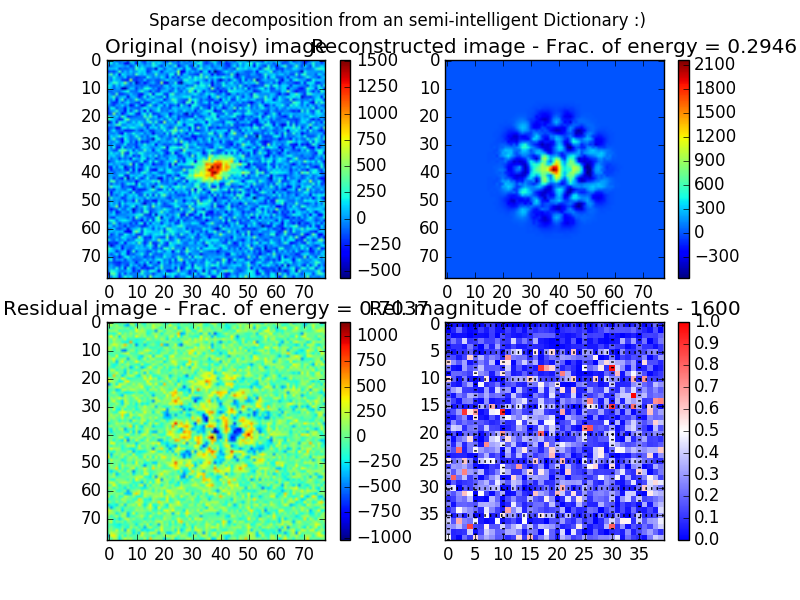
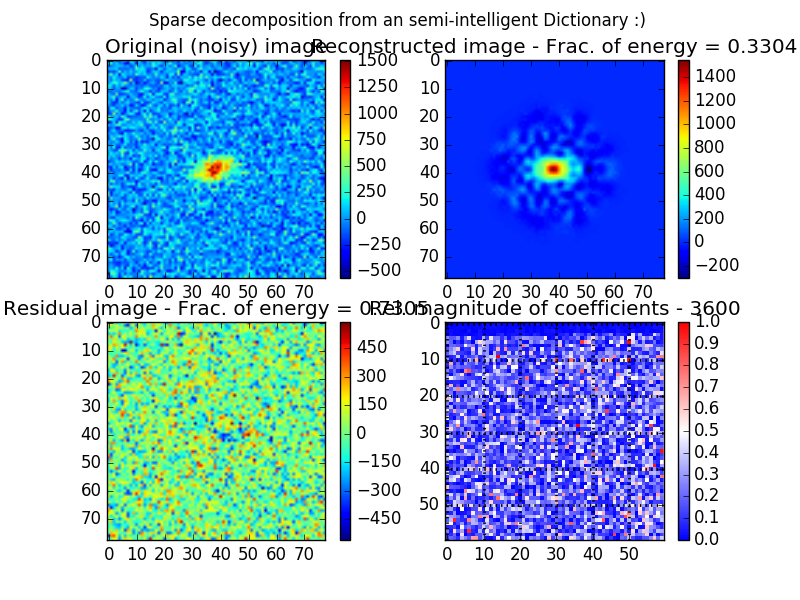
Variables interchanged in SVD solver - fixed

diff --git a/codes/code/python_codes/shapelet_dicts.py b/codes/code/python_codes/shapelet_dicts.py
@@ -19,7 +19,7 @@ import math
 from sklearn.linear_model import OrthogonalMatchingPursuit as OMP
 import polar_shapelet_decomp as p_shapelet
 
-DEBUG = 1
+DEBUG =1
 
 ##Define orthonormal basis - shapelets
 def shapelet1d(n,x0=0,s=1):
@@ -106,6 +106,28 @@ def plot_decomposition(cube_real, img_idx, base_coefs,N1,N2,shapelet_reconst, si
             +str(np.round(residual_energy_fraction,4)))
     ax[1,1].set_title('Rel. magnitude of coefficients')
     fig.suptitle('Shapelet Basis decomposition')
+    
+    def on_draw(event):
+       bboxes = []
+       for label in labels:
+           bbox = label.get_window_extent()
+           # the figure transform goes from relative coords->pixels and we
+           # want the inverse of that
+           bboxi = bbox.inverse_transformed(fig.transFigure)
+           bboxes.append(bboxi)
+
+       # this is the bbox that bounds all the bboxes, again in relative
+       # figure coords
+       bbox = mtransforms.Bbox.union(bboxes)
+       if fig.subplotpars.left < bbox.width:
+           # we need to move it over
+           fig.subplots_adjust(left=1.1*bbox.width) # pad a little
+           fig.canvas.draw()
+       return False
+
+    fig.canvas.mpl_connect('draw_event', on_draw)
+    
+    plt.show()
 
     if(basis == 'Polar'):
         plt.savefig('Decomp_cartesian.png')
@@ -174,6 +196,7 @@ def solver_SVD(D, signal):
     
     if(DEBUG):
         print('shape_coeffs ', np.shape(coeffs_SVD))
+        print('shape_D', np.shape(D))
     n_nonzero_coefs_SVD = np.count_nonzero(coeffs_SVD)
     reconstruction_SVD = np.dot(D,coeffs_SVD)
     residual_SVD = signal - reconstruction_SVD
@@ -212,9 +235,7 @@ def solver_lasso_reg(D, signal):
             residual_energy_fraction_lasso, recovered_energy_fraction_lasso, n_nonzero_coefs_lasso
 
 
-
-
-def shapelet_decomposition(N1=20,N2=20, basis = 'XY', solver = 'sparse'):
+def shapelet_decomposition(N1=20,N2=20, basis = 'XY', solver = 'sparse', noise = False):
     # Obtaining galaxy images
     cube_real = pyfits.getdata('../../data/cube_real.fits')
     cubr_real_noiseless = pyfits.getdata('../../data/cube_real_noiseless.fits')
@@ -241,6 +262,14 @@ def shapelet_decomposition(N1=20,N2=20, basis = 'XY', solver = 'sparse'):
                 Phi[i,j] = math.atan2(Yv[i,j], Xv[i,j])
 
         signal = cube_real[img_idx].flatten()
+
+        if(1):
+            import random
+            random.seed()
+            print(signal, np.shape(signal))
+            signal = signal + np.random.rand(np.shape(signal)[0])
+            print(signal, np.shape(signal))
+
         shapelet_reconst = np.zeros_like(signal)
 
         #Decompose into Polar or XY 
@@ -297,25 +326,29 @@ def shapelet_decomposition(N1=20,N2=20, basis = 'XY', solver = 'sparse'):
         fig = plot_decomposition(cube_real, img_idx, base_coefs,N1,N2,shapelet_reconst, signal, residual,\
                 residual_energy_fraction ,recovered_energy_fraction, basis)         
 
+
         # Sparse solver
         if (solver == 'sparse'):
             sparse_coefs, sparse_reconst, sparse_residual, \
-                residual_energy_fraction, recovered_energy_fraction, \
+                residual_energy_fraction_sparse, recovered_energy_fraction_sparse, \
                 n_nonzero_coefs = sparse_solver(D, signal, N1, N2)
             plot_solution(N1,N2,cube_real, img_idx, sparse_reconst, sparse_residual, sparse_coefs,\
-                    recovered_energy_fraction, residual_energy_fraction, n_nonzero_coefs, \
+                    recovered_energy_fraction_sparse, residual_energy_fraction_sparse, \
+                    n_nonzero_coefs, \
                     fig, 'Sparse_solution.png')
 
         # SVD solver // following berry approach
         if (solver == 'SVD'):
 
-            reconstruction_SVD, residual_SVD, coeffs_SVD,\
-            recovered_energy_fraction, residual_energy_fraction, \
+            coeffs_SVD, reconstruction_SVD, residual_SVD,\
+            residual_energy_fraction_SVD, recovered_energy_fraction_SVD, \
             n_nonzero_coefs_SVD =solver_SVD(D, signal)
             
-            plot_solution(N1,N2,cube_real, img_idx, reconstruction_SVD, residual_SVD, coeffs_SVD,\
-            recovered_energy_fraction, residual_energy_fraction, n_nonzero_coefs_SVD, \
-            fig, 'SVD_solution.png')
+            print(np.shape(residual_SVD), np.shape(reconstruction_SVD))
+            plot_solution(N1,N2,cube_real, img_idx, reconstruction_SVD, residual_SVD, coeffs_SVD, \
+                    recovered_energy_fraction_SVD, residual_energy_fraction_SVD, \
+                    n_nonzero_coefs_SVD,\
+                    fig, 'SVD_solution.png')
 
         #Ordinary least squares solver
         if (solver == 'P_2'):
